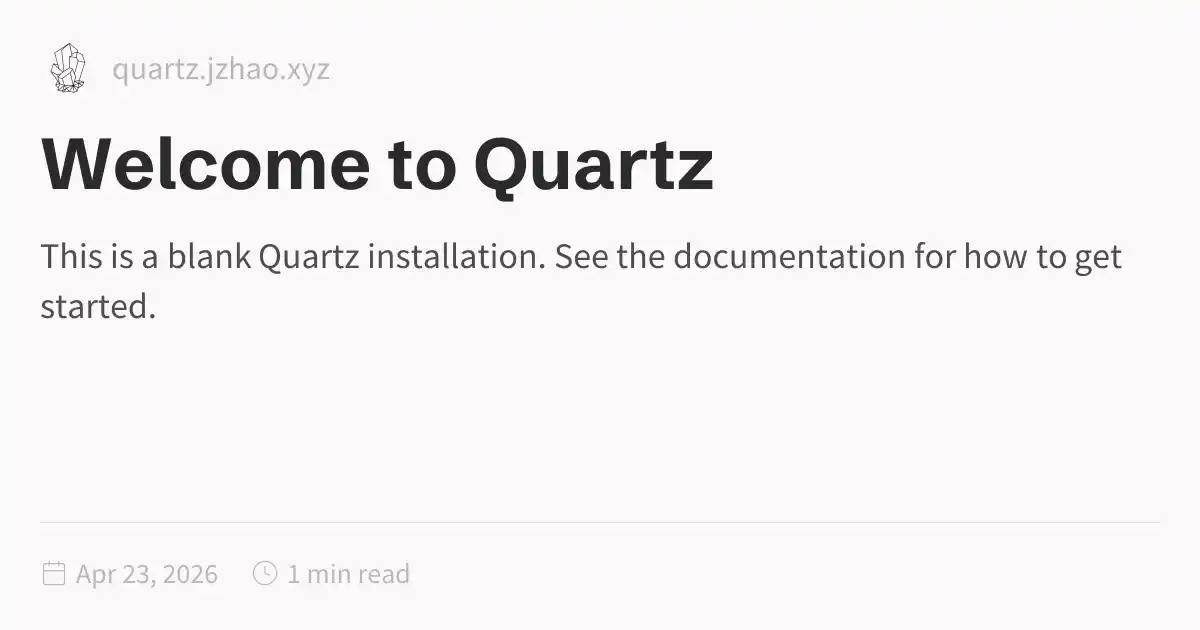
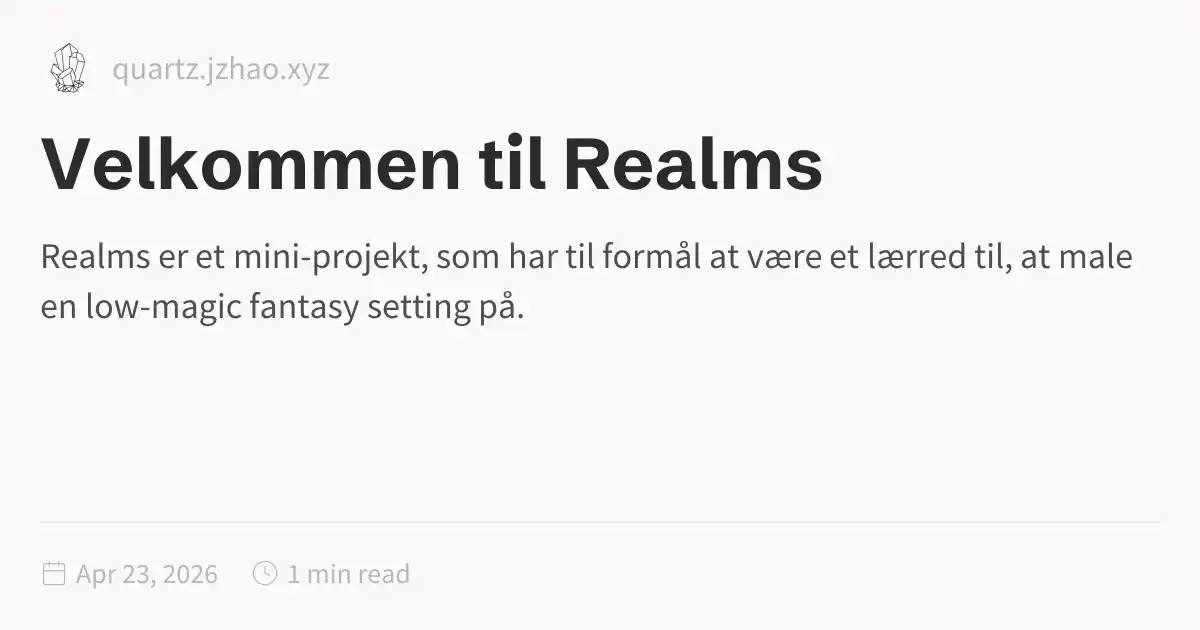
Deploy from main repo: bae7dd4293e331c3b60ddf6f31868079fd28ecd2

Changed region(s): [[0.0308, 0.3921, 0.9558, 0.5127], [0.0308, 0.2111, 0.7092, 0.3317]]

diff --git a/rakdam-fantasy/Lyse.html b/rakdam-fantasy/Lyse.html
@@ -115,9 +115,11 @@ pre:hover > .expand-button {
   padding: 0 12px;
   font-size: 14px;
 }
[1 lines of base64/hex data omitted]
-Lyse eksporterer to varer til resten af landet. Alpisk Salt, som betragtes for det reneste og mest velsmagende salt i riget. Salten udvindes fra en saltmine, som er gravet ned mod kystsiden af bjerget. Uden tvivl deponeringer af salt tilovers fra dengang dele af bjerget var under vand. Dernæst eksporterer de forskellige stråsorter. Blandt andet halm, hø, og foddergræsser. Alt sammen under det Alpiske varemærke. Denne er ikke lige så successfuld som salteksporten, men der værnes endnu om kvaliteten og det udgør en betydelig del af økonomien.
-Lyse ligger i en stor eng tilstødende en flod, som løber fra en bjergtop til en modsvarende grotte på tværs af dalen. Denne er kilde til liv og fællesskab i Lyse. Den bringer drikkevand, vand til markerne, samt ledes ud i adskillige små åer og bække på tværs af dalen, nogen af hvilke er menneskeskabte.</p></article><hr/><div class="page-footer"></div></div><div class="right sidebar"><div class="graph"><h3>Graph View</h3><div class="graph-outer"><div class="graph-container" data-cfg="{&quot;drag&quot;:true,&quot;zoom&quot;:true,&quot;depth&quot;:1,&quot;scale&quot;:1.1,&quot;repelForce&quot;:0.5,&quot;centerForce&quot;:0.3,&quot;linkDistance&quot;:30,&quot;fontSize&quot;:0.6,&quot;opacityScale&quot;:1,&quot;showTags&quot;:true,&quot;removeTags&quot;:[],&quot;focusOnHover&quot;:false,&quot;enableRadial&quot;:false}"></div><button class="global-graph-icon" aria-label="Global Graph"><svg version="1.1" xmlns="http://www.w3.org/2000/svg" xmlns:xlink="http://www.w3.org/1999/xlink" x="0px" y="0px" viewBox="0 0 55 55" fill="currentColor" xml:space="preserve"><path d="M49,0c-3.309,0-6,2.691-6,6c0,1.035,0.263,2.009,0.726,2.86l-9.829,9.829C32.542,17.634,30.846,17,29,17
[1 lines of base64/hex data omitted]
+Den eneste velkendte vej til Lyse er gennem en lang hovedvej. Denne er kritisk for handlen i og fra Lyse.</p>
+<p>Lyse eksporterer to varer til resten af landet. Alpisk Salt, som betragtes for det reneste og mest velsmagende salt i riget. Salten udvindes fra en saltmine, som er gravet ned mod kystsiden af bjerget. Uden tvivl deponeringer af salt tilovers fra dengang dele af bjerget var under vand.</p>
+<p>Dernæst eksporterer de forskellige stråsorter. Blandt andet halm, hø, og foddergræsser. Alt sammen under det Alpiske varemærke. Denne er ikke lige så successfuld som salteksporten, men der værnes endnu om kvaliteten og det udgør en betydelig del af økonomien.</p>
+<p>Lyse ligger i en stor eng tilstødende en flod, som løber fra en bjergtop til en modsvarende grotte på tværs af dalen. Denne er kilde til liv og fællesskab i Lyse. Den bringer drikkevand, vand til markerne, samt ledes ud i adskillige små åer og bække på tværs af dalen, nogen af hvilke er menneskeskabte.</p></article><hr/><div class="page-footer"></div></div><div class="right sidebar"><div class="graph"><h3>Graph View</h3><div class="graph-outer"><div class="graph-container" data-cfg="{&quot;drag&quot;:true,&quot;zoom&quot;:true,&quot;depth&quot;:1,&quot;scale&quot;:1.1,&quot;repelForce&quot;:0.5,&quot;centerForce&quot;:0.3,&quot;linkDistance&quot;:30,&quot;fontSize&quot;:0.6,&quot;opacityScale&quot;:1,&quot;showTags&quot;:true,&quot;removeTags&quot;:[],&quot;focusOnHover&quot;:false,&quot;enableRadial&quot;:false}"></div><button class="global-graph-icon" aria-label="Global Graph"><svg version="1.1" xmlns="http://www.w3.org/2000/svg" xmlns:xlink="http://www.w3.org/1999/xlink" x="0px" y="0px" viewBox="0 0 55 55" fill="currentColor" xml:space="preserve"><path d="M49,0c-3.309,0-6,2.691-6,6c0,1.035,0.263,2.009,0.726,2.86l-9.829,9.829C32.542,17.634,30.846,17,29,17
                 s-3.542,0.634-4.898,1.688l-7.669-7.669C16.785,10.424,17,9.74,17,9c0-2.206-1.794-4-4-4S9,6.794,9,9s1.794,4,4,4
                 c0.74,0,1.424-0.215,2.019-0.567l7.669,7.669C21.634,21.458,21,23.154,21,25s0.634,3.542,1.688,4.897L10.024,42.562
                 C8.958,41.595,7.549,41,6,41c-3.309,0-6,2.691-6,6s2.691,6,6,6s6-2.691,6-6c0-1.035-0.263-2.009-0.726-2.86l12.829-12.829
@@ -127,6 +129,6 @@ Lyse ligger i en stor eng tilstødende en flod, som løber fra en bjergtop til e
                 C46.042,11.405,47.451,12,49,12c3.309,0,6-2.691,6-6S52.309,0,49,0z M11,9c0-1.103,0.897-2,2-2s2,0.897,2,2s-0.897,2-2,2
                 S11,10.103,11,9z M6,51c-2.206,0-4-1.794-4-4s1.794-4,4-4s4,1.794,4,4S8.206,51,6,51z M33,49c0,2.206-1.794,4-4,4s-4-1.794-4-4
                 s1.794-4,4-4S33,46.794,33,49z M29,31c-3.309,0-6-2.691-6-6s2.691-6,6-6s6,2.691,6,6S32.309,31,29,31z M47,41c0,1.103-0.897,2-2,2
-                s-2-0.897-2-2s0.897-2,2-2S47,39.897,47,41z M49,10c-2.206,0-4-1.794-4-4s1.794-4,4-4s4,1.794,4,4S51.206,10,49,10z"></path></svg></button></div><div class="global-graph-outer"><div class="global-graph-container" data-cfg="{&quot;drag&quot;:true,&quot;zoom&quot;:true,&quot;depth&quot;:-1,&quot;scale&quot;:0.9,&quot;repelForce&quot;:0.5,&quot;centerForce&quot;:0.2,&quot;linkDistance&quot;:30,&quot;fontSize&quot;:0.6,&quot;opacityScale&quot;:1,&quot;showTags&quot;:true,&quot;removeTags&quot;:[],&quot;focusOnHover&quot;:true,&quot;enableRadial&quot;:true}"></div></div></div></div><footer class><p>Created with <a href="https://quartz.jzhao.xyz/">Quartz v4.5.2</a> © 2026</p><ul><li><a href="https://github.com/jackyzha0/quartz">GitHub</a></li><li><a href="https://discord.gg/cRFFHYye7t">Discord Community</a></li></ul></footer></div></div></body><script type="application/javascript" data-persist="true">function n(){let t=this.parentElement;t.classList.toggle("is-collapsed");let e=t.getElementsByClassName("callout-content")[0];if(!e)return;let l=t.classList.contains("is-collapsed");e.style.gridTemplateRows=l?"0fr":"1fr"}function c(){let t=document.getElementsByClassName("callout is-collapsible");for(let e of t){let l=e.getElementsByClassName("callout-title")[0],s=e.getElementsByClassName("callout-content")[0];if(!l||!s)continue;l.addEventListener("click",n),window.addCleanup(()=>l.removeEventListener("click",n));let o=e.classList.contains("is-collapsed");s.style.gridTemplateRows=o?"0fr":"1fr"}}document.addEventListener("nav",c);
+                s-2-0.897-2-2s0.897-2,2-2S47,39.897,47,41z M49,10c-2.206,0-4-1.794-4-4s1.794-4,4-4s4,1.794,4,4S51.206,10,49,10z"></path></svg></button></div><div class="global-graph-outer"><div class="global-graph-container" data-cfg="{&quot;drag&quot;:true,&quot;zoom&quot;:true,&quot;depth&quot;:-1,&quot;scale&quot;:0.9,&quot;repelForce&quot;:0.5,&quot;centerForce&quot;:0.2,&quot;linkDistance&quot;:30,&quot;fontSize&quot;:0.6,&quot;opacityScale&quot;:1,&quot;showTags&quot;:true,&quot;removeTags&quot;:[],&quot;focusOnHover&quot;:true,&quot;enableRadial&quot;:true}"></div></div></div><div class="backlinks"><h3>Backlinks</h3><ul id="list-2" class="overflow"><li><a href="../" class="internal">Velkommen til Realms</a></li><li class="overflow-end"></li></ul></div></div><footer class><p>Created with <a href="https://quartz.jzhao.xyz/">Quartz v4.5.2</a> © 2026</p><ul><li><a href="https://github.com/jackyzha0/quartz">GitHub</a></li><li><a href="https://discord.gg/cRFFHYye7t">Discord Community</a></li></ul></footer></div></div></body><script type="application/javascript" data-persist="true">function n(){let t=this.parentElement;t.classList.toggle("is-collapsed");let e=t.getElementsByClassName("callout-content")[0];if(!e)return;let l=t.classList.contains("is-collapsed");e.style.gridTemplateRows=l?"0fr":"1fr"}function c(){let t=document.getElementsByClassName("callout is-collapsible");for(let e of t){let l=e.getElementsByClassName("callout-title")[0],s=e.getElementsByClassName("callout-content")[0];if(!l||!s)continue;l.addEventListener("click",n),window.addCleanup(()=>l.removeEventListener("click",n));let o=e.classList.contains("is-collapsed");s.style.gridTemplateRows=o?"0fr":"1fr"}}document.addEventListener("nav",c);
 </script><script type="module" data-persist="true">function E(a,e){if(!a)return;function t(o){o.target===this&&(o.preventDefault(),o.stopPropagation(),e())}function n(o){o.key.startsWith("Esc")&&(o.preventDefault(),e())}a?.addEventListener("click",t),window.addCleanup(()=>a?.removeEventListener("click",t)),document.addEventListener("keydown",n),window.addCleanup(()=>document.removeEventListener("keydown",n))}function f(a){for(;a.firstChild;)a.removeChild(a.firstChild)}var m=class{constructor(e,t){this.container=e;this.content=t;this.setupEventListeners(),this.setupNavigationControls(),this.resetTransform()}isDragging=!1;startPan={x:0,y:0};currentPan={x:0,y:0};scale=1;MIN_SCALE=.5;MAX_SCALE=3;cleanups=[];setupEventListeners(){let e=this.onMouseDown.bind(this),t=this.onMouseMove.bind(this),n=this.onMouseUp.bind(this),o=this.onTouchStart.bind(this),r=this.onTouchMove.bind(this),i=this.onTouchEnd.bind(this),s=this.resetTransform.bind(this);this.container.addEventListener("mousedown",e),document.addEventListener("mousemove",t),document.addEventListener("mouseup",n),this.container.addEventListener("touchstart",o,{passive:!1}),document.addEventListener("touchmove",r,{passive:!1}),document.addEventListener("touchend",i),window.addEventListener("resize",s),this.cleanups.push(()=>this.container.removeEventListener("mousedown",e),()=>document.removeEventListener("mousemove",t),()=>document.removeEventListener("mouseup",n),()=>this.container.removeEventListener("touchstart",o),()=>document.removeEventListener("touchmove",r),()=>document.removeEventListener("touchend",i),()=>window.removeEventListener("resize",s))}cleanup(){for(let e of this.cleanups)e()}setupNavigationControls(){let e=document.createElement("div");e.className="mermaid-controls";let t=this.createButton("+",()=>this.zoom(.1)),n=this.createButton("-",()=>this.zoom(-.1)),o=this.createButton("Reset",()=>this.resetTransform());e.appendChild(n),e.appendChild(o),e.appendChild(t),this.container.appendChild(e)}createButton(e,t){let n=document.createElement("button");return n.textContent=e,n.className="mermaid-control-button",n.addEventListener("click",t),window.addCleanup(()=>n.removeEventListener("click",t)),n}onMouseDown(e){e.button===0&&(this.isDragging=!0,this.startPan={x:e.clientX-this.currentPan.x,y:e.clientY-this.currentPan.y},this.container.style.cursor="grabbing")}onMouseMove(e){this.isDragging&&(e.preventDefault(),this.currentPan={x:e.clientX-this.startPan.x,y:e.clientY-this.startPan.y},this.updateTransform())}onMouseUp(){this.isDragging=!1,this.container.style.cursor="grab"}onTouchStart(e){if(e.touches.length!==1)return;this.isDragging=!0;let t=e.touches[0];this.startPan={x:t.clientX-this.currentPan.x,y:t.clientY-this.currentPan.y}}onTouchMove(e){if(!this.isDragging||e.touches.length!==1)return;e.preventDefault();let t=e.touches[0];this.currentPan={x:t.clientX-this.startPan.x,y:t.clientY-this.startPan.y},this.updateTransform()}onTouchEnd(){this.isDragging=!1}zoom(e){let t=Math.min(Math.max(this.scale+e,this.MIN_SCALE),this.MAX_SCALE),n=this.content.getBoundingClientRect(),o=n.width/2,r=n.height/2,i=t-this.scale;this.currentPan.x-=o*i,this.currentPan.y-=r*i,this.scale=t,this.updateTransform()}updateTransform(){this.content.style.transform=`translate(${this.currentPan.x}px, ${this.currentPan.y}px) scale(${this.scale})`}resetTransform(){let t=this.content.querySelector("svg").getBoundingClientRect(),n=t.width/this.scale,o=t.height/this.scale;this.scale=1,this.currentPan={x:(this.container.clientWidth-n)/2,y:(this.container.clientHeight-o)/2},this.updateTransform()}},T=["--secondary","--tertiary","--gray","--light","--lightgray","--highlight","--dark","--darkgray","--codeFont"],y;document.addEventListener("nav",async()=>{let e=document.querySelector(".center").querySelectorAll("code.mermaid");if(e.length===0)return;y||=await import("https://cdnjs.cloudflare.com/ajax/libs/mermaid/11.4.0/mermaid.esm.min.mjs");let t=y.default,n=new WeakMap;for(let r of e)n.set(r,r.innerText);async function o(){for(let s of e){s.removeAttribute("data-processed");let c=n.get(s);c&&(s.innerHTML=c)}let r=T.reduce((s,c)=>(s[c]=window.getComputedStyle(document.documentElement).getPropertyValue(c),s),{}),i=document.documentElement.getAttribute("saved-theme")==="dark";t.initialize({startOnLoad:!1,securityLevel:"loose",theme:i?"dark":"base",themeVariables:{fontFamily:r["--codeFont"],primaryColor:r["--light"],primaryTextColor:r["--darkgray"],primaryBorderColor:r["--tertiary"],lineColor:r["--darkgray"],secondaryColor:r["--secondary"],tertiaryColor:r["--tertiary"],clusterBkg:r["--light"],edgeLabelBackground:r["--highlight"]}}),await t.run({nodes:e})}await o(),document.addEventListener("themechange",o),window.addCleanup(()=>document.removeEventListener("themechange",o));for(let r=0;r<e.length;r++){let v=function(){let g=l.querySelector("#mermaid-space"),h=l.querySelector(".mermaid-content");if(!h)return;f(h);let w=i.querySelector("svg").cloneNode(!0);h.appendChild(w),l.classList.add("active"),g.style.cursor="grab",u=new m(g,h)},M=function(){l.classList.remove("active"),u?.cleanup(),u=null},i=e[r],s=i.parentElement,c=s.querySelector(".clipboard-button"),d=s.querySelector(".expand-button"),p=window.getComputedStyle(c),L=c.offsetWidth+parseFloat(p.marginLeft||"0")+parseFloat(p.marginRight||"0");d.style.right=`calc(${L}px + 0.3rem)`,s.prepend(d);let l=s.querySelector("#mermaid-container");if(!l)return;let u=null;d.addEventListener("click",v),E(l,M),window.addCleanup(()=>{u?.cleanup(),d.removeEventListener("click",v)})}});
 </script><script src="https://cdn.jsdelivr.net/npm/katex@0.16.11/dist/contrib/copy-tex.min.js" type="application/javascript" data-persist="true"></script><script src="../postscript.js" type="module" data-persist="true"></script></html>

diff --git a/index.html b/index.html
@@ -1,5 +1,5 @@
 <!DOCTYPE html>
-<html lang="en" dir="ltr"><head><title>Welcome to Quartz</title><meta charset="utf-8"/><link rel="preconnect" href="https://fonts.googleapis.com"/><link rel="preconnect" href="https://fonts.gstatic.com"/><link rel="stylesheet" href="https://fonts.googleapis.com/css2?family=Schibsted Grotesk:wght@400;700&amp;family=Source Sans Pro:ital,wght@0,400;0,600;1,400;1,600&amp;family=IBM Plex Mono:wght@400;600&amp;display=swap"/><link rel="preconnect" href="https://cdnjs.cloudflare.com" crossorigin="anonymous"/><meta name="viewport" content="width=device-width, initial-scale=1.0"/><meta name="og:site_name" content="Quartz 4"/><meta property="og:title" content="Welcome to Quartz"/><meta property="og:type" content="website"/><meta name="twitter:card" content="summary_large_image"/><meta name="twitter:title" content="Welcome to Quartz"/><meta name="twitter:description" content="This is a blank Quartz installation. See the documentation for how to get started."/><meta property="og:description" content="This is a blank Quartz installation. See the documentation for how to get started."/><meta property="og:image:alt" content="This is a blank Quartz installation. See the documentation for how to get started."/><meta property="twitter:domain" content="quartz.jzhao.xyz"/><meta property="og:url" content="https://quartz.jzhao.xyz/index"/><meta property="twitter:url" content="https://quartz.jzhao.xyz/index"/><link rel="icon" href="./static/icon.png"/><meta name="description" content="This is a blank Quartz installation. See the documentation for how to get started."/><meta name="generator" content="Quartz"/><link href="./index.css" rel="stylesheet" type="text/css" data-persist="true"/><style>.expand-button {
+<html lang="en" dir="ltr"><head><title>Velkommen til Realms</title><meta charset="utf-8"/><link rel="preconnect" href="https://fonts.googleapis.com"/><link rel="preconnect" href="https://fonts.gstatic.com"/><link rel="stylesheet" href="https://fonts.googleapis.com/css2?family=Schibsted Grotesk:wght@400;700&amp;family=Source Sans Pro:ital,wght@0,400;0,600;1,400;1,600&amp;family=IBM Plex Mono:wght@400;600&amp;display=swap"/><link rel="preconnect" href="https://cdnjs.cloudflare.com" crossorigin="anonymous"/><meta name="viewport" content="width=device-width, initial-scale=1.0"/><meta name="og:site_name" content="Quartz 4"/><meta property="og:title" content="Velkommen til Realms"/><meta property="og:type" content="website"/><meta name="twitter:card" content="summary_large_image"/><meta name="twitter:title" content="Velkommen til Realms"/><meta name="twitter:description" content="Realms er et mini-projekt, som har til formål at være et lærred til, at male en low-magic fantasy setting på."/><meta property="og:description" content="Realms er et mini-projekt, som har til formål at være et lærred til, at male en low-magic fantasy setting på."/><meta property="og:image:alt" content="Realms er et mini-projekt, som har til formål at være et lærred til, at male en low-magic fantasy setting på."/><meta property="twitter:domain" content="quartz.jzhao.xyz"/><meta property="og:url" content="https://quartz.jzhao.xyz/index"/><meta property="twitter:url" content="https://quartz.jzhao.xyz/index"/><link rel="icon" href="./static/icon.png"/><meta name="description" content="Realms er et mini-projekt, som har til formål at være et lærred til, at male en low-magic fantasy setting på."/><meta name="generator" content="Quartz"/><link href="./index.css" rel="stylesheet" type="text/css" data-persist="true"/><style>.expand-button {
   position: absolute;
   display: flex;
   float: right;
@@ -115,8 +115,8 @@ pre:hover > .expand-button {
   padding: 0 12px;
   font-size: 14px;
 }
[1 lines of base64/hex data omitted]
-See the <a href="https://quartz.jzhao.xyz" class="external">documentation<svg aria-hidden="true" class="external-icon" style="max-width:0.8em;max-height:0.8em;" viewBox="0 0 512 512"><path d="M320 0H288V64h32 82.7L201.4 265.4 178.7 288 224 333.3l22.6-22.6L448 109.3V192v32h64V192 32 0H480 320zM32 32H0V64 480v32H32 456h32V480 352 320H424v32 96H64V96h96 32V32H160 32z"></path></svg></a> for how to get started.</p></article><hr/><div class="page-footer"></div></div><div class="right sidebar"><div class="graph"><h3>Graph View</h3><div class="graph-outer"><div class="graph-container" data-cfg="{&quot;drag&quot;:true,&quot;zoom&quot;:true,&quot;depth&quot;:1,&quot;scale&quot;:1.1,&quot;repelForce&quot;:0.5,&quot;centerForce&quot;:0.3,&quot;linkDistance&quot;:30,&quot;fontSize&quot;:0.6,&quot;opacityScale&quot;:1,&quot;showTags&quot;:true,&quot;removeTags&quot;:[],&quot;focusOnHover&quot;:false,&quot;enableRadial&quot;:false}"></div><button class="global-graph-icon" aria-label="Global Graph"><svg version="1.1" xmlns="http://www.w3.org/2000/svg" xmlns:xlink="http://www.w3.org/1999/xlink" x="0px" y="0px" viewBox="0 0 55 55" fill="currentColor" xml:space="preserve"><path d="M49,0c-3.309,0-6,2.691-6,6c0,1.035,0.263,2.009,0.726,2.86l-9.829,9.829C32.542,17.634,30.846,17,29,17
[1 lines of base64/hex data omitted]
+<p>Lige nu kan du starte med <a href="./rakdam-fantasy/Lyse" class="internal" data-slug="rakdam-fantasy/Lyse">Lyse</a>, og så kommer der måske mere senere.</p></article><hr/><div class="page-footer"></div></div><div class="right sidebar"><div class="graph"><h3>Graph View</h3><div class="graph-outer"><div class="graph-container" data-cfg="{&quot;drag&quot;:true,&quot;zoom&quot;:true,&quot;depth&quot;:1,&quot;scale&quot;:1.1,&quot;repelForce&quot;:0.5,&quot;centerForce&quot;:0.3,&quot;linkDistance&quot;:30,&quot;fontSize&quot;:0.6,&quot;opacityScale&quot;:1,&quot;showTags&quot;:true,&quot;removeTags&quot;:[],&quot;focusOnHover&quot;:false,&quot;enableRadial&quot;:false}"></div><button class="global-graph-icon" aria-label="Global Graph"><svg version="1.1" xmlns="http://www.w3.org/2000/svg" xmlns:xlink="http://www.w3.org/1999/xlink" x="0px" y="0px" viewBox="0 0 55 55" fill="currentColor" xml:space="preserve"><path d="M49,0c-3.309,0-6,2.691-6,6c0,1.035,0.263,2.009,0.726,2.86l-9.829,9.829C32.542,17.634,30.846,17,29,17
                 s-3.542,0.634-4.898,1.688l-7.669-7.669C16.785,10.424,17,9.74,17,9c0-2.206-1.794-4-4-4S9,6.794,9,9s1.794,4,4,4
                 c0.74,0,1.424-0.215,2.019-0.567l7.669,7.669C21.634,21.458,21,23.154,21,25s0.634,3.542,1.688,4.897L10.024,42.562
                 C8.958,41.595,7.549,41,6,41c-3.309,0-6,2.691-6,6s2.691,6,6,6s6-2.691,6-6c0-1.035-0.263-2.009-0.726-2.86l12.829-12.829

diff --git a/rakdam-fantasy/index.html b/rakdam-fantasy/index.html
@@ -115,6 +115,6 @@ pre:hover > .expand-button {
   padding: 0 12px;
   font-size: 14px;
 }
[2 lines of base64/hex data omitted]
 </script><script type="module" data-persist="true">function E(a,e){if(!a)return;function t(o){o.target===this&&(o.preventDefault(),o.stopPropagation(),e())}function n(o){o.key.startsWith("Esc")&&(o.preventDefault(),e())}a?.addEventListener("click",t),window.addCleanup(()=>a?.removeEventListener("click",t)),document.addEventListener("keydown",n),window.addCleanup(()=>document.removeEventListener("keydown",n))}function f(a){for(;a.firstChild;)a.removeChild(a.firstChild)}var m=class{constructor(e,t){this.container=e;this.content=t;this.setupEventListeners(),this.setupNavigationControls(),this.resetTransform()}isDragging=!1;startPan={x:0,y:0};currentPan={x:0,y:0};scale=1;MIN_SCALE=.5;MAX_SCALE=3;cleanups=[];setupEventListeners(){let e=this.onMouseDown.bind(this),t=this.onMouseMove.bind(this),n=this.onMouseUp.bind(this),o=this.onTouchStart.bind(this),r=this.onTouchMove.bind(this),i=this.onTouchEnd.bind(this),s=this.resetTransform.bind(this);this.container.addEventListener("mousedown",e),document.addEventListener("mousemove",t),document.addEventListener("mouseup",n),this.container.addEventListener("touchstart",o,{passive:!1}),document.addEventListener("touchmove",r,{passive:!1}),document.addEventListener("touchend",i),window.addEventListener("resize",s),this.cleanups.push(()=>this.container.removeEventListener("mousedown",e),()=>document.removeEventListener("mousemove",t),()=>document.removeEventListener("mouseup",n),()=>this.container.removeEventListener("touchstart",o),()=>document.removeEventListener("touchmove",r),()=>document.removeEventListener("touchend",i),()=>window.removeEventListener("resize",s))}cleanup(){for(let e of this.cleanups)e()}setupNavigationControls(){let e=document.createElement("div");e.className="mermaid-controls";let t=this.createButton("+",()=>this.zoom(.1)),n=this.createButton("-",()=>this.zoom(-.1)),o=this.createButton("Reset",()=>this.resetTransform());e.appendChild(n),e.appendChild(o),e.appendChild(t),this.container.appendChild(e)}createButton(e,t){let n=document.createElement("button");return n.textContent=e,n.className="mermaid-control-button",n.addEventListener("click",t),window.addCleanup(()=>n.removeEventListener("click",t)),n}onMouseDown(e){e.button===0&&(this.isDragging=!0,this.startPan={x:e.clientX-this.currentPan.x,y:e.clientY-this.currentPan.y},this.container.style.cursor="grabbing")}onMouseMove(e){this.isDragging&&(e.preventDefault(),this.currentPan={x:e.clientX-this.startPan.x,y:e.clientY-this.startPan.y},this.updateTransform())}onMouseUp(){this.isDragging=!1,this.container.style.cursor="grab"}onTouchStart(e){if(e.touches.length!==1)return;this.isDragging=!0;let t=e.touches[0];this.startPan={x:t.clientX-this.currentPan.x,y:t.clientY-this.currentPan.y}}onTouchMove(e){if(!this.isDragging||e.touches.length!==1)return;e.preventDefault();let t=e.touches[0];this.currentPan={x:t.clientX-this.startPan.x,y:t.clientY-this.startPan.y},this.updateTransform()}onTouchEnd(){this.isDragging=!1}zoom(e){let t=Math.min(Math.max(this.scale+e,this.MIN_SCALE),this.MAX_SCALE),n=this.content.getBoundingClientRect(),o=n.width/2,r=n.height/2,i=t-this.scale;this.currentPan.x-=o*i,this.currentPan.y-=r*i,this.scale=t,this.updateTransform()}updateTransform(){this.content.style.transform=`translate(${this.currentPan.x}px, ${this.currentPan.y}px) scale(${this.scale})`}resetTransform(){let t=this.content.querySelector("svg").getBoundingClientRect(),n=t.width/this.scale,o=t.height/this.scale;this.scale=1,this.currentPan={x:(this.container.clientWidth-n)/2,y:(this.container.clientHeight-o)/2},this.updateTransform()}},T=["--secondary","--tertiary","--gray","--light","--lightgray","--highlight","--dark","--darkgray","--codeFont"],y;document.addEventListener("nav",async()=>{let e=document.querySelector(".center").querySelectorAll("code.mermaid");if(e.length===0)return;y||=await import("https://cdnjs.cloudflare.com/ajax/libs/mermaid/11.4.0/mermaid.esm.min.mjs");let t=y.default,n=new WeakMap;for(let r of e)n.set(r,r.innerText);async function o(){for(let s of e){s.removeAttribute("data-processed");let c=n.get(s);c&&(s.innerHTML=c)}let r=T.reduce((s,c)=>(s[c]=window.getComputedStyle(document.documentElement).getPropertyValue(c),s),{}),i=document.documentElement.getAttribute("saved-theme")==="dark";t.initialize({startOnLoad:!1,securityLevel:"loose",theme:i?"dark":"base",themeVariables:{fontFamily:r["--codeFont"],primaryColor:r["--light"],primaryTextColor:r["--darkgray"],primaryBorderColor:r["--tertiary"],lineColor:r["--darkgray"],secondaryColor:r["--secondary"],tertiaryColor:r["--tertiary"],clusterBkg:r["--light"],edgeLabelBackground:r["--highlight"]}}),await t.run({nodes:e})}await o(),document.addEventListener("themechange",o),window.addCleanup(()=>document.removeEventListener("themechange",o));for(let r=0;r<e.length;r++){let v=function(){let g=l.querySelector("#mermaid-space"),h=l.querySelector(".mermaid-content");if(!h)return;f(h);let w=i.querySelector("svg").cloneNode(!0);h.appendChild(w),l.classList.add("active"),g.style.cursor="grab",u=new m(g,h)},M=function(){l.classList.remove("active"),u?.cleanup(),u=null},i=e[r],s=i.parentElement,c=s.querySelector(".clipboard-button"),d=s.querySelector(".expand-button"),p=window.getComputedStyle(c),L=c.offsetWidth+parseFloat(p.marginLeft||"0")+parseFloat(p.marginRight||"0");d.style.right=`calc(${L}px + 0.3rem)`,s.prepend(d);let l=s.querySelector("#mermaid-container");if(!l)return;let u=null;d.addEventListener("click",v),E(l,M),window.addCleanup(()=>{u?.cleanup(),d.removeEventListener("click",v)})}});
 </script><script src="https://cdn.jsdelivr.net/npm/katex@0.16.11/dist/contrib/copy-tex.min.js" type="application/javascript" data-persist="true"></script><script src="../postscript.js" type="module" data-persist="true"></script></html>

diff --git a/tags/index.html b/tags/index.html
@@ -115,6 +115,6 @@ pre:hover > .expand-button {
   padding: 0 12px;
   font-size: 14px;
 }
[2 lines of base64/hex data omitted]
 </script><script type="module" data-persist="true">function E(a,e){if(!a)return;function t(o){o.target===this&&(o.preventDefault(),o.stopPropagation(),e())}function n(o){o.key.startsWith("Esc")&&(o.preventDefault(),e())}a?.addEventListener("click",t),window.addCleanup(()=>a?.removeEventListener("click",t)),document.addEventListener("keydown",n),window.addCleanup(()=>document.removeEventListener("keydown",n))}function f(a){for(;a.firstChild;)a.removeChild(a.firstChild)}var m=class{constructor(e,t){this.container=e;this.content=t;this.setupEventListeners(),this.setupNavigationControls(),this.resetTransform()}isDragging=!1;startPan={x:0,y:0};currentPan={x:0,y:0};scale=1;MIN_SCALE=.5;MAX_SCALE=3;cleanups=[];setupEventListeners(){let e=this.onMouseDown.bind(this),t=this.onMouseMove.bind(this),n=this.onMouseUp.bind(this),o=this.onTouchStart.bind(this),r=this.onTouchMove.bind(this),i=this.onTouchEnd.bind(this),s=this.resetTransform.bind(this);this.container.addEventListener("mousedown",e),document.addEventListener("mousemove",t),document.addEventListener("mouseup",n),this.container.addEventListener("touchstart",o,{passive:!1}),document.addEventListener("touchmove",r,{passive:!1}),document.addEventListener("touchend",i),window.addEventListener("resize",s),this.cleanups.push(()=>this.container.removeEventListener("mousedown",e),()=>document.removeEventListener("mousemove",t),()=>document.removeEventListener("mouseup",n),()=>this.container.removeEventListener("touchstart",o),()=>document.removeEventListener("touchmove",r),()=>document.removeEventListener("touchend",i),()=>window.removeEventListener("resize",s))}cleanup(){for(let e of this.cleanups)e()}setupNavigationControls(){let e=document.createElement("div");e.className="mermaid-controls";let t=this.createButton("+",()=>this.zoom(.1)),n=this.createButton("-",()=>this.zoom(-.1)),o=this.createButton("Reset",()=>this.resetTransform());e.appendChild(n),e.appendChild(o),e.appendChild(t),this.container.appendChild(e)}createButton(e,t){let n=document.createElement("button");return n.textContent=e,n.className="mermaid-control-button",n.addEventListener("click",t),window.addCleanup(()=>n.removeEventListener("click",t)),n}onMouseDown(e){e.button===0&&(this.isDragging=!0,this.startPan={x:e.clientX-this.currentPan.x,y:e.clientY-this.currentPan.y},this.container.style.cursor="grabbing")}onMouseMove(e){this.isDragging&&(e.preventDefault(),this.currentPan={x:e.clientX-this.startPan.x,y:e.clientY-this.startPan.y},this.updateTransform())}onMouseUp(){this.isDragging=!1,this.container.style.cursor="grab"}onTouchStart(e){if(e.touches.length!==1)return;this.isDragging=!0;let t=e.touches[0];this.startPan={x:t.clientX-this.currentPan.x,y:t.clientY-this.currentPan.y}}onTouchMove(e){if(!this.isDragging||e.touches.length!==1)return;e.preventDefault();let t=e.touches[0];this.currentPan={x:t.clientX-this.startPan.x,y:t.clientY-this.startPan.y},this.updateTransform()}onTouchEnd(){this.isDragging=!1}zoom(e){let t=Math.min(Math.max(this.scale+e,this.MIN_SCALE),this.MAX_SCALE),n=this.content.getBoundingClientRect(),o=n.width/2,r=n.height/2,i=t-this.scale;this.currentPan.x-=o*i,this.currentPan.y-=r*i,this.scale=t,this.updateTransform()}updateTransform(){this.content.style.transform=`translate(${this.currentPan.x}px, ${this.currentPan.y}px) scale(${this.scale})`}resetTransform(){let t=this.content.querySelector("svg").getBoundingClientRect(),n=t.width/this.scale,o=t.height/this.scale;this.scale=1,this.currentPan={x:(this.container.clientWidth-n)/2,y:(this.container.clientHeight-o)/2},this.updateTransform()}},T=["--secondary","--tertiary","--gray","--light","--lightgray","--highlight","--dark","--darkgray","--codeFont"],y;document.addEventListener("nav",async()=>{let e=document.querySelector(".center").querySelectorAll("code.mermaid");if(e.length===0)return;y||=await import("https://cdnjs.cloudflare.com/ajax/libs/mermaid/11.4.0/mermaid.esm.min.mjs");let t=y.default,n=new WeakMap;for(let r of e)n.set(r,r.innerText);async function o(){for(let s of e){s.removeAttribute("data-processed");let c=n.get(s);c&&(s.innerHTML=c)}let r=T.reduce((s,c)=>(s[c]=window.getComputedStyle(document.documentElement).getPropertyValue(c),s),{}),i=document.documentElement.getAttribute("saved-theme")==="dark";t.initialize({startOnLoad:!1,securityLevel:"loose",theme:i?"dark":"base",themeVariables:{fontFamily:r["--codeFont"],primaryColor:r["--light"],primaryTextColor:r["--darkgray"],primaryBorderColor:r["--tertiary"],lineColor:r["--darkgray"],secondaryColor:r["--secondary"],tertiaryColor:r["--tertiary"],clusterBkg:r["--light"],edgeLabelBackground:r["--highlight"]}}),await t.run({nodes:e})}await o(),document.addEventListener("themechange",o),window.addCleanup(()=>document.removeEventListener("themechange",o));for(let r=0;r<e.length;r++){let v=function(){let g=l.querySelector("#mermaid-space"),h=l.querySelector(".mermaid-content");if(!h)return;f(h);let w=i.querySelector("svg").cloneNode(!0);h.appendChild(w),l.classList.add("active"),g.style.cursor="grab",u=new m(g,h)},M=function(){l.classList.remove("active"),u?.cleanup(),u=null},i=e[r],s=i.parentElement,c=s.querySelector(".clipboard-button"),d=s.querySelector(".expand-button"),p=window.getComputedStyle(c),L=c.offsetWidth+parseFloat(p.marginLeft||"0")+parseFloat(p.marginRight||"0");d.style.right=`calc(${L}px + 0.3rem)`,s.prepend(d);let l=s.querySelector("#mermaid-container");if(!l)return;let u=null;d.addEventListener("click",v),E(l,M),window.addCleanup(()=>{u?.cleanup(),d.removeEventListener("click",v)})}});
 </script><script src="https://cdn.jsdelivr.net/npm/katex@0.16.11/dist/contrib/copy-tex.min.js" type="application/javascript" data-persist="true"></script><script src="../postscript.js" type="module" data-persist="true"></script></html>

diff --git a/404.html b/404.html
@@ -115,6 +115,6 @@ pre:hover > .expand-button {
   padding: 0 12px;
   font-size: 14px;
 }
[2 lines of base64/hex data omitted]
 </script><script type="module" data-persist="true">function E(a,e){if(!a)return;function t(o){o.target===this&&(o.preventDefault(),o.stopPropagation(),e())}function n(o){o.key.startsWith("Esc")&&(o.preventDefault(),e())}a?.addEventListener("click",t),window.addCleanup(()=>a?.removeEventListener("click",t)),document.addEventListener("keydown",n),window.addCleanup(()=>document.removeEventListener("keydown",n))}function f(a){for(;a.firstChild;)a.removeChild(a.firstChild)}var m=class{constructor(e,t){this.container=e;this.content=t;this.setupEventListeners(),this.setupNavigationControls(),this.resetTransform()}isDragging=!1;startPan={x:0,y:0};currentPan={x:0,y:0};scale=1;MIN_SCALE=.5;MAX_SCALE=3;cleanups=[];setupEventListeners(){let e=this.onMouseDown.bind(this),t=this.onMouseMove.bind(this),n=this.onMouseUp.bind(this),o=this.onTouchStart.bind(this),r=this.onTouchMove.bind(this),i=this.onTouchEnd.bind(this),s=this.resetTransform.bind(this);this.container.addEventListener("mousedown",e),document.addEventListener("mousemove",t),document.addEventListener("mouseup",n),this.container.addEventListener("touchstart",o,{passive:!1}),document.addEventListener("touchmove",r,{passive:!1}),document.addEventListener("touchend",i),window.addEventListener("resize",s),this.cleanups.push(()=>this.container.removeEventListener("mousedown",e),()=>document.removeEventListener("mousemove",t),()=>document.removeEventListener("mouseup",n),()=>this.container.removeEventListener("touchstart",o),()=>document.removeEventListener("touchmove",r),()=>document.removeEventListener("touchend",i),()=>window.removeEventListener("resize",s))}cleanup(){for(let e of this.cleanups)e()}setupNavigationControls(){let e=document.createElement("div");e.className="mermaid-controls";let t=this.createButton("+",()=>this.zoom(.1)),n=this.createButton("-",()=>this.zoom(-.1)),o=this.createButton("Reset",()=>this.resetTransform());e.appendChild(n),e.appendChild(o),e.appendChild(t),this.container.appendChild(e)}createButton(e,t){let n=document.createElement("button");return n.textContent=e,n.className="mermaid-control-button",n.addEventListener("click",t),window.addCleanup(()=>n.removeEventListener("click",t)),n}onMouseDown(e){e.button===0&&(this.isDragging=!0,this.startPan={x:e.clientX-this.currentPan.x,y:e.clientY-this.currentPan.y},this.container.style.cursor="grabbing")}onMouseMove(e){this.isDragging&&(e.preventDefault(),this.currentPan={x:e.clientX-this.startPan.x,y:e.clientY-this.startPan.y},this.updateTransform())}onMouseUp(){this.isDragging=!1,this.container.style.cursor="grab"}onTouchStart(e){if(e.touches.length!==1)return;this.isDragging=!0;let t=e.touches[0];this.startPan={x:t.clientX-this.currentPan.x,y:t.clientY-this.currentPan.y}}onTouchMove(e){if(!this.isDragging||e.touches.length!==1)return;e.preventDefault();let t=e.touches[0];this.currentPan={x:t.clientX-this.startPan.x,y:t.clientY-this.startPan.y},this.updateTransform()}onTouchEnd(){this.isDragging=!1}zoom(e){let t=Math.min(Math.max(this.scale+e,this.MIN_SCALE),this.MAX_SCALE),n=this.content.getBoundingClientRect(),o=n.width/2,r=n.height/2,i=t-this.scale;this.currentPan.x-=o*i,this.currentPan.y-=r*i,this.scale=t,this.updateTransform()}updateTransform(){this.content.style.transform=`translate(${this.currentPan.x}px, ${this.currentPan.y}px) scale(${this.scale})`}resetTransform(){let t=this.content.querySelector("svg").getBoundingClientRect(),n=t.width/this.scale,o=t.height/this.scale;this.scale=1,this.currentPan={x:(this.container.clientWidth-n)/2,y:(this.container.clientHeight-o)/2},this.updateTransform()}},T=["--secondary","--tertiary","--gray","--light","--lightgray","--highlight","--dark","--darkgray","--codeFont"],y;document.addEventListener("nav",async()=>{let e=document.querySelector(".center").querySelectorAll("code.mermaid");if(e.length===0)return;y||=await import("https://cdnjs.cloudflare.com/ajax/libs/mermaid/11.4.0/mermaid.esm.min.mjs");let t=y.default,n=new WeakMap;for(let r of e)n.set(r,r.innerText);async function o(){for(let s of e){s.removeAttribute("data-processed");let c=n.get(s);c&&(s.innerHTML=c)}let r=T.reduce((s,c)=>(s[c]=window.getComputedStyle(document.documentElement).getPropertyValue(c),s),{}),i=document.documentElement.getAttribute("saved-theme")==="dark";t.initialize({startOnLoad:!1,securityLevel:"loose",theme:i?"dark":"base",themeVariables:{fontFamily:r["--codeFont"],primaryColor:r["--light"],primaryTextColor:r["--darkgray"],primaryBorderColor:r["--tertiary"],lineColor:r["--darkgray"],secondaryColor:r["--secondary"],tertiaryColor:r["--tertiary"],clusterBkg:r["--light"],edgeLabelBackground:r["--highlight"]}}),await t.run({nodes:e})}await o(),document.addEventListener("themechange",o),window.addCleanup(()=>document.removeEventListener("themechange",o));for(let r=0;r<e.length;r++){let v=function(){let g=l.querySelector("#mermaid-space"),h=l.querySelector(".mermaid-content");if(!h)return;f(h);let w=i.querySelector("svg").cloneNode(!0);h.appendChild(w),l.classList.add("active"),g.style.cursor="grab",u=new m(g,h)},M=function(){l.classList.remove("active"),u?.cleanup(),u=null},i=e[r],s=i.parentElement,c=s.querySelector(".clipboard-button"),d=s.querySelector(".expand-button"),p=window.getComputedStyle(c),L=c.offsetWidth+parseFloat(p.marginLeft||"0")+parseFloat(p.marginRight||"0");d.style.right=`calc(${L}px + 0.3rem)`,s.prepend(d);let l=s.querySelector("#mermaid-container");if(!l)return;let u=null;d.addEventListener("click",v),E(l,M),window.addCleanup(()=>{u?.cleanup(),d.removeEventListener("click",v)})}});
 </script><script src="https://cdn.jsdelivr.net/npm/katex@0.16.11/dist/contrib/copy-tex.min.js" type="application/javascript" data-persist="true"></script><script src="/postscript.js" type="module" data-persist="true"></script></html>
